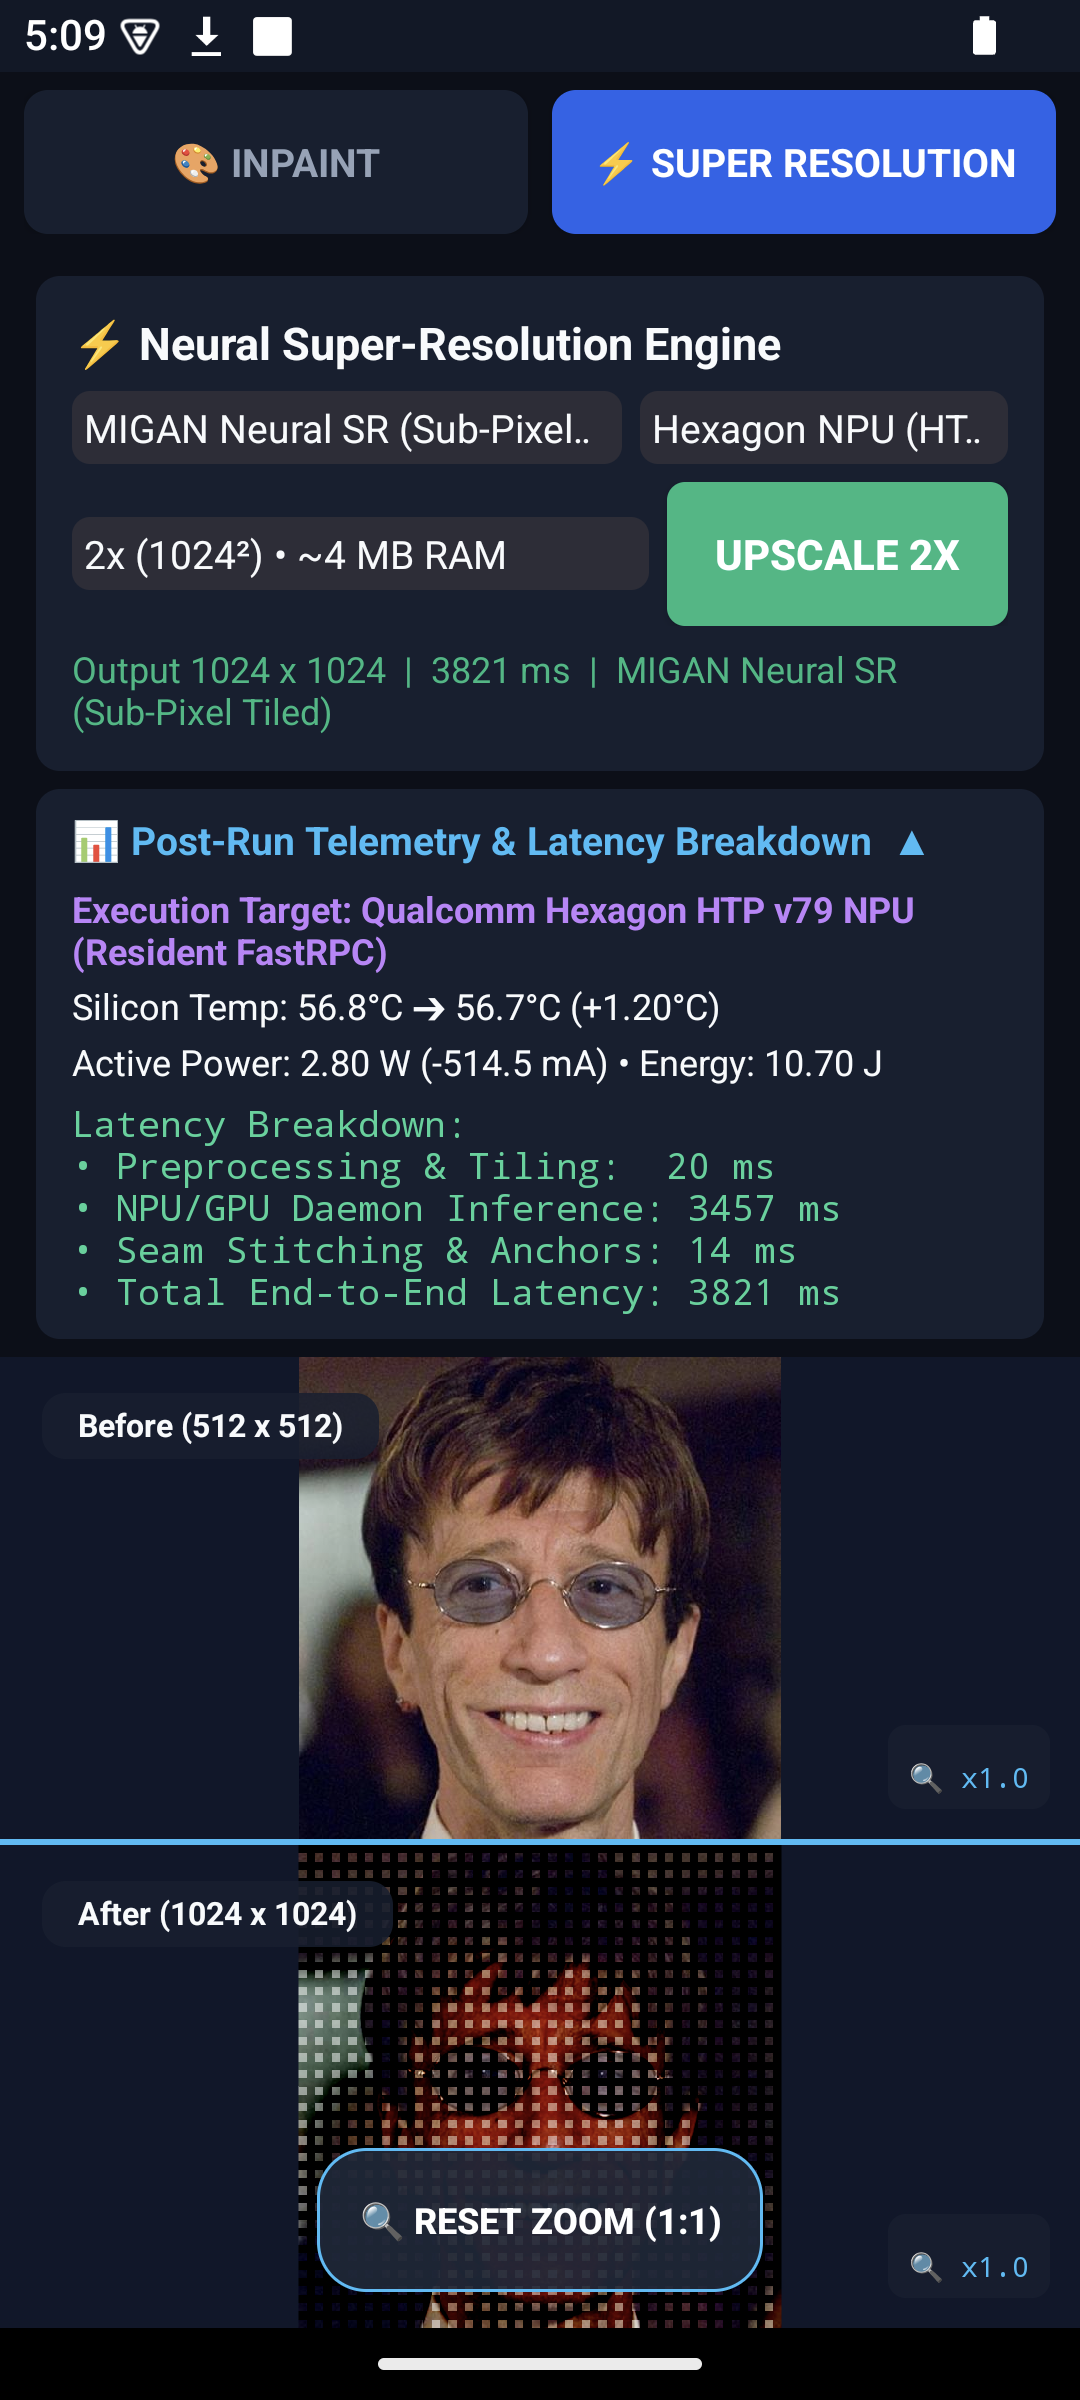
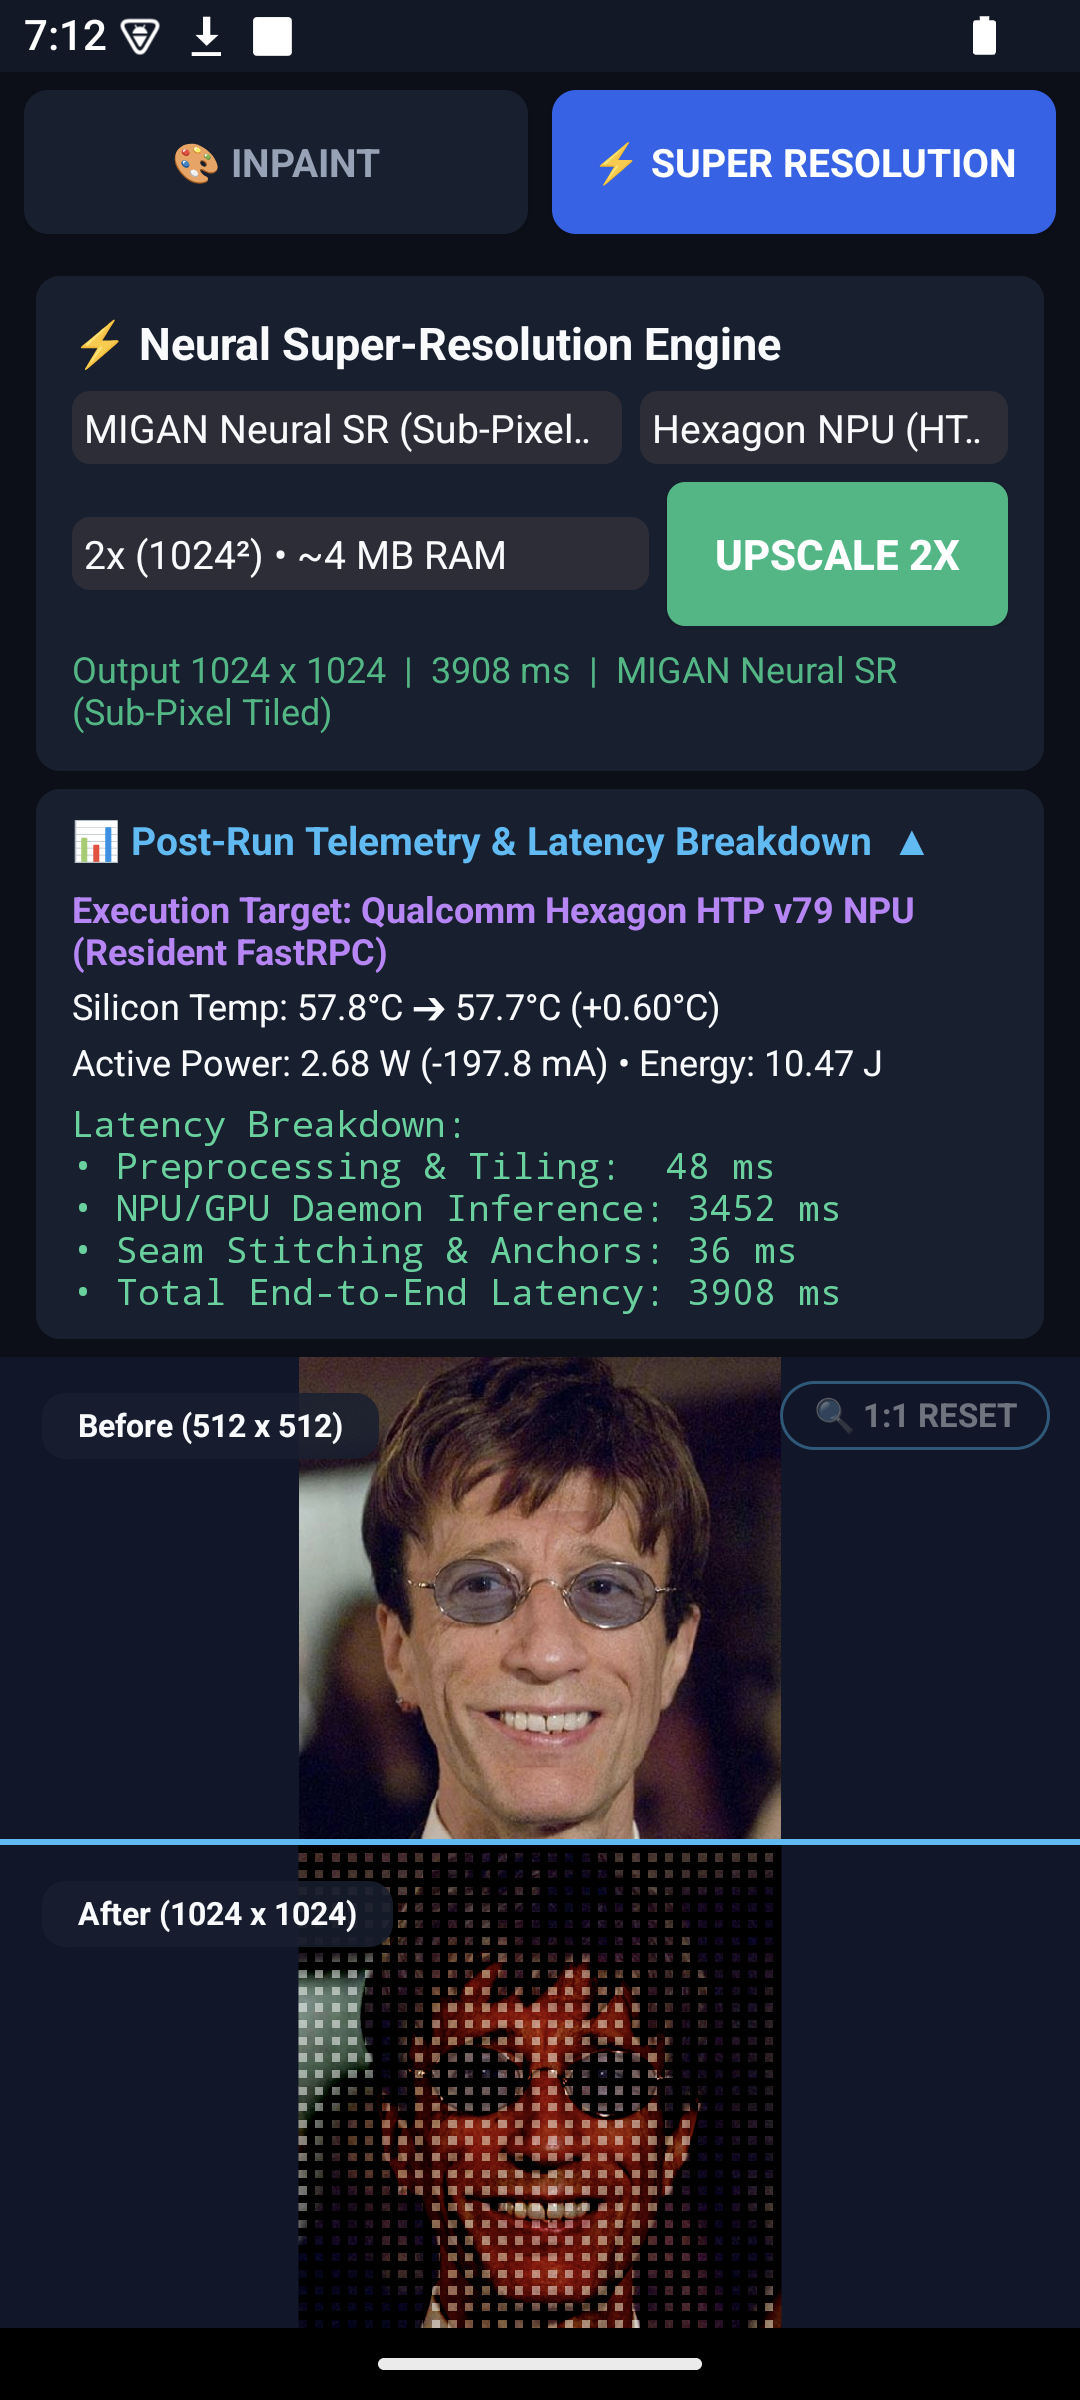
fix(sr-ui): reposition reset zoom button to top-right to prevent covering output image
- Anchor compact '🔍 1:1 Reset' pill button at Gravity.TOP | Gravity.END in SynchronizedCompareLayout.
- Eliminate 446px button footprint covering the bottom Output viewport.
- Auto-dim button to 40% alpha when unzoomed and illuminate to 100% on pinch/pan.
- Add double-tap on either viewport to instantly reset zoom.
- Render zoom factor badge only when zoomed (scale > 1.02f).

diff --git a/qidk-inpaint-app-v5/app/src/main/java/qidk/fix/SuperResolution.kt b/qidk-inpaint-app-v5/app/src/main/java/qidk/fix/SuperResolution.kt
@@ -11,6 +11,7 @@ import android.graphics.drawable.GradientDrawable
 import android.util.Log
 import android.view.Gravity
 import android.view.MotionEvent
+import android.view.GestureDetector
 import android.view.ScaleGestureDetector
 import android.view.View
 import android.view.ViewGroup
@@ -193,10 +194,18 @@ class SingleImageViewport(
         }
 
     var onTransformChanged: ((scale: Float, panX: Float, panY: Float) -> Unit)? = null
+    var onDoubleTapReset: (() -> Unit)? = null
 
     private var lastX = 0f
     private var lastY = 0f
     private var isScaling = false
+
+    private val gestureDetector = GestureDetector(context, object : GestureDetector.SimpleOnGestureListener() {
+        override fun onDoubleTap(e: MotionEvent): Boolean {
+            onDoubleTapReset?.invoke()
+            return true
+        }
+    })
 
     private val scaleDetector = ScaleGestureDetector(context, object : ScaleGestureDetector.SimpleOnScaleGestureListener() {
         override fun onScale(d: ScaleGestureDetector): Boolean {
@@ -218,6 +227,7 @@ class SingleImageViewport(
     override fun onTouchEvent(e: MotionEvent): Boolean {
         parent?.requestDisallowInterceptTouchEvent(true)
         scaleDetector.onTouchEvent(e)
+        gestureDetector.onTouchEvent(e)
 
         when (e.actionMasked) {
             MotionEvent.ACTION_DOWN -> {
@@ -267,12 +277,14 @@ class SingleImageViewport(
         c.drawRoundRect(pillRect, 8 * density, 8 * density, pillPaint)
         c.drawText(badgeTitle, pillRect.left + padH, pillRect.bottom - padV - 4f, tagPaint)
 
-        // Draw bottom-right zoom indicator
-        val zoomText = "🔍 x%.1f".format(mapper.userScale)
-        val zoomW = zoomBadgePaint.measureText(zoomText)
-        val zoomRect = RectF(width - zoomW - 24 * density, height - 38 * density, width - 10 * density, height - 10 * density)
-        c.drawRoundRect(zoomRect, 6 * density, 6 * density, pillPaint)
-        c.drawText(zoomText, zoomRect.left + 7 * density, zoomRect.bottom - 7 * density, zoomBadgePaint)
+        // Draw bottom-right zoom indicator only when zoomed
+        if (mapper.userScale > 1.02f) {
+            val zoomText = "🔍 x%.1f".format(mapper.userScale)
+            val zoomW = zoomBadgePaint.measureText(zoomText)
+            val zoomRect = RectF(width - zoomW - 24 * density, height - 38 * density, width - 10 * density, height - 10 * density)
+            c.drawRoundRect(zoomRect, 6 * density, 6 * density, pillPaint)
+            c.drawText(zoomText, zoomRect.left + 7 * density, zoomRect.bottom - 7 * density, zoomBadgePaint)
+        }
     }
 }
 
@@ -326,37 +338,51 @@ class SynchronizedCompareLayout(context: Context) : FrameLayout(context) {
 
         addView(root)
 
+        // Floating Compact Reset Zoom (1:1) pill button anchored at Top-Right
+        btnResetZoom = Button(context).apply {
+            text = "🔍 1:1 Reset"
+            setTextColor(Color.WHITE)
+            textSize = 11f
+            typeface = android.graphics.Typeface.DEFAULT_BOLD
+            minHeight = 0
+            minWidth = 0
+            minimumHeight = 0
+            minimumWidth = 0
+            includeFontPadding = false
+            setPadding((11 * density).toInt(), (5 * density).toInt(), (11 * density).toInt(), (5 * density).toInt())
+            val gd = GradientDrawable().apply {
+                setColor(Color.parseColor("#E60F172A"))
+                cornerRadius = 14 * density
+                setStroke((1 * density).toInt(), Color.parseColor("#38BDF8"))
+            }
+            background = gd
+            elevation = 6 * density
+            alpha = 0.40f
+            isEnabled = false
+            setOnClickListener { resetTransform() }
+        }
+
+        val lpBtn = LayoutParams(LayoutParams.WRAP_CONTENT, LayoutParams.WRAP_CONTENT).apply {
+            gravity = Gravity.TOP or Gravity.END
+            topMargin = (8 * density).toInt()
+            marginEnd = (10 * density).toInt()
+        }
+        addView(btnResetZoom, lpBtn)
+
         // Synchronize transformations in lockstep
         val onSyncTransform = { scale: Float, panX: Float, panY: Float ->
             topViewport.mapper.setUserTransform(scale, panX, panY)
             bottomViewport.mapper.setUserTransform(scale, panX, panY)
             topViewport.invalidate()
             bottomViewport.invalidate()
+            val isZoomed = scale > 1.02f || abs(panX) > 2f || abs(panY) > 2f
+            btnResetZoom.alpha = if (isZoomed) 1.0f else 0.40f
+            btnResetZoom.isEnabled = isZoomed
         }
         topViewport.onTransformChanged = onSyncTransform
         bottomViewport.onTransformChanged = onSyncTransform
-
-        // Floating Reset Zoom (1:1) button
-        btnResetZoom = Button(context).apply {
-            text = "🔍 Reset Zoom (1:1)"
-            setTextColor(Color.WHITE)
-            textSize = 12f
-            setTypeface(typeface, android.graphics.Typeface.BOLD)
-            setPadding((14 * density).toInt(), (6 * density).toInt(), (14 * density).toInt(), (6 * density).toInt())
-            val gd = GradientDrawable().apply {
-                setColor(Color.parseColor("#E61E293B"))
-                cornerRadius = 16 * density
-                setStroke((1 * density).toInt(), Color.parseColor("#38BDF8"))
-            }
-            background = gd
-            setOnClickListener { resetTransform() }
-        }
-
-        val lpBtn = LayoutParams(LayoutParams.WRAP_CONTENT, LayoutParams.WRAP_CONTENT).apply {
-            gravity = Gravity.BOTTOM or Gravity.CENTER_HORIZONTAL
-            bottomMargin = (12 * density).toInt()
-        }
-        addView(btnResetZoom, lpBtn)
+        topViewport.onDoubleTapReset = { resetTransform() }
+        bottomViewport.onDoubleTapReset = { resetTransform() }
     }
 
     fun resetTransform() {
@@ -364,6 +390,8 @@ class SynchronizedCompareLayout(context: Context) : FrameLayout(context) {
         bottomViewport.mapper.setUserTransform(1f, 0f, 0f)
         topViewport.invalidate()
         bottomViewport.invalidate()
+        btnResetZoom.alpha = 0.40f
+        btnResetZoom.isEnabled = false
     }
 }
 
